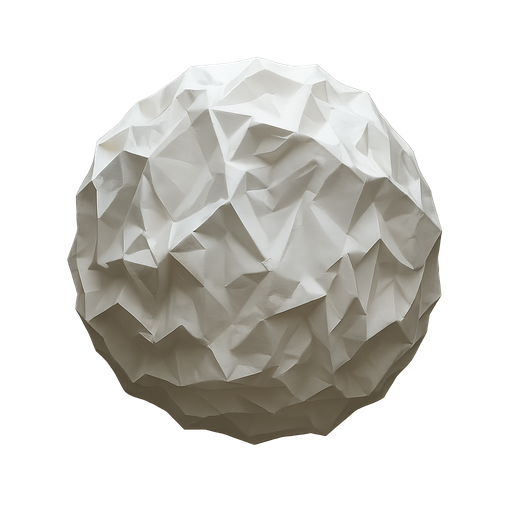
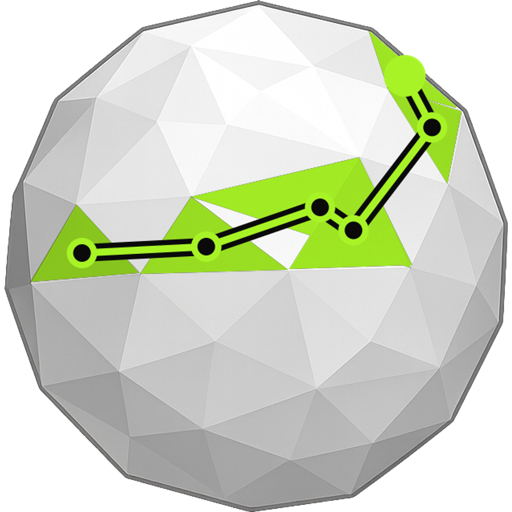
feat(brand): roll the AEO Toolkit mark ('the climb') into README, extension and docs
Replace the plain Advance Labs sphere with the new mark: README headers,
Chrome extension icons (16/32/48/128), docs logo, favicon and apple-touch icon.
Drop the sphere icon generator (generate-icons.mjs, icon.svg) and its
'pnpm icons' step from 'package', which would have overwritten the new PNGs.
Extension version unchanged; the store needs a manual republish.

diff --git a/apps/chrome-extension/manifest.config.ts b/apps/chrome-extension/manifest.config.ts
@@ -15,8 +15,8 @@ export default defineManifest({
     'Client-side AEO/GEO audit of the active tab: meta, structured data, robots.txt, sitemap, llms.txt, AI-bot rules. Exports a PDF.',
   version: `${major}.${minor}.${patch}`,
   version_name: version,
-  // PNGs are generated from src/icons/icon.svg by scripts/generate-icons.mjs
-  // into public/icons/. Vite serves public/ from the build root, so the files
+  // PNGs are committed in public/icons/ (the AEO Toolkit mark on a dark tile).
+  // Vite serves public/ from the build root, so the files
   // land at dist/icons/* — manifest paths are relative to the project root and
   // must start with a letter (no `public/` prefix). Chrome MV3 requires raster
   // icons here; SVG is not accepted for the toolbar or store listing.

diff --git a/brand/README.md b/brand/README.md
@@ -5,30 +5,30 @@
 
 The brand that shipped with the September 2026 website redesign. In one line: **a calibrated
 instrument, printed.** Near-black ground, one acid-green signal colour, violet as the
-secondary, mono labels like the margin notes on a lab sheet, Syne headlines, and the Advance
-Labs sphere as the mark.
+secondary, mono labels like the margin notes on a lab sheet, Syne headlines, and the AEO
+Toolkit mark, "the climb", a sphere with a rising line.
 
 ## Mark
 
-The mark is the **Advance Labs sphere**, the crumpled-paper polyhedron from
-[advancelabs.dev](https://advancelabs.dev). AEO Toolkit is an Advance Labs product and carries the
-studio's mark; the wordmark carries the product name.
+The mark is **the climb**: the Advance Labs sphere carrying a Signal-green rising line. It
+replaces the plain sphere, which now stays the studio mark on advancelabs.dev only.
 
 | File | Use |
 |------|-----|
-| [`mark-256.png`](mark-256.png) | The mark alone, square, transparent. Favicons, app icons, avatars. |
+| [`mark-256.png`](mark-256.png) | The mark alone, square, transparent. In-page logos, READMEs. |
+| [`icon-256.png`](icon-256.png) | The mark on a rounded `#0A0A0B` tile. Favicons, app icons, avatars. |
 | [`mark-512.png`](mark-512.png) | Same, for social cards, README and print. |
 | [`logo-dark.png`](logo-dark.png) | Horizontal lockup (mark + wordmark in Signal green) for **dark** backgrounds. Transparent. |
 | [`logo.png`](logo.png) | Horizontal lockup (mark + wordmark in Ink) for **light** backgrounds. Transparent. |
 | [`logo-dark-preview.png`](logo-dark-preview.png) | The dark lockup composited on the `#0A0A0B` ground, for previews. |
 | [`social-preview.png`](social-preview.png) | 1280×640 card for the GitHub repository social preview (upload under Settings). |
 
-The sphere is a photographed object, so the assets are rasters with alpha; there is no vector
-version. The 1024 px master is the `MoonAinB.png` served by advancelabs.dev.
+The mark is a raster with alpha; there is no vector version. The lockups (`logo*.png`,
+`social-preview.png`) still carry the plain sphere and are stale until regenerated with the new mark.
 
 In `apps/console`, use `BrandMark` / `BrandLockup` from `src/components/BrandMark.tsx` rather
-than these files. The Chrome extension's icons are generated from `src/icons/icon.svg`, which
-embeds the same sphere.
+than these files. The Chrome extension's icons are committed PNGs in
+`apps/chrome-extension/public/icons/`.
 
 ## Wordmark
 
@@ -105,11 +105,7 @@ problem in a smaller box.
 | Favicons, app icons, avatars | Same, wherever the host renders on an unknown ground |
 | Anywhere we own the ground (site, docs, README on GitHub's dark UI) | The transparent mark, as above |
 
-Clear space and the 16 px mark minimum **collide on small tiles** — a quarter-width inset on a
-16 px icon leaves a 10 px sphere, under the mark's own floor. Clear space is what gives, because
-it is breathing room and legibility is a requirement. The inset therefore tightens as the tile
-shrinks: the sphere takes 64% of the tile at 128 and 48, 78% at 32, 88% at 16. That table lives
-in `apps/chrome-extension/scripts/generate-icons.mjs`; change it there, not by hand-editing PNGs.
+The tile icons were produced at 16/32/48/64/128/180/192/256/512/1024 px with the sphere inset tightening as the tile shrinks (clear space yields to legibility at 16 px). They are committed rasters; regenerate from the master, do not hand-edit.
 
 ## Previous brand
 

diff --git a/apps/chrome-extension/README.md b/apps/chrome-extension/README.md
@@ -1,8 +1,5 @@
 <p align="center">
-  <picture>
-    <source media="(prefers-color-scheme: dark)" srcset="../../brand/logo-dark.png">
-    <img src="../../brand/logo.png" alt="AEO Toolkit" width="280">
-  </picture>
+  <img src="../../brand/mark-256.png" alt="AEO Toolkit" width="128">
 </p>
 
 # @advance-labs/chrome-extension
@@ -55,9 +52,8 @@ Then load the unpacked extension:
 | Script | What it does |
 | --- | --- |
 | `dev` | `vite` dev build with HMR for the popup + content/background reload. |
-| `icons` | Rasterize `src/icons/icon.svg` (the brand mark) → `public/icons/icon-{16,32,48,128}.png` via `sharp`. |
 | `build` | `vite build` → production `dist/` (the loadable/zippable extension). |
-| `package` | `icons`, then `build`, then zip `dist/` into a store-uploadable `aeo-extension.zip` (manifest at the archive root). |
+| `package` | `build`, then zip `dist/` into a store-uploadable `aeo-extension.zip` (manifest at the archive root). |
 | `typecheck` | `tsc --noEmit` under strict mode. |
 | `test` | `vitest run` — unit tests for the pure pipeline (mocks `@advance-labs/*` + I/O). |
 
@@ -93,7 +89,7 @@ are required.
 pnpm --filter @advance-labs/chrome-extension package
 ```
 
-This first generates the brand icons, then builds `dist/` and zips its **contents** (so
+This builds `dist/` and zips its **contents** (so
 `manifest.json` sits at the archive root, as Chrome requires) into
 `apps/chrome-extension/aeo-extension.zip`. See [`CHROME_STORE.md`](./CHROME_STORE.md) for the
 full listing/submission walkthrough — required icon sizes (16/32/48/128 PNG), screenshots, the
@@ -101,10 +97,9 @@ privacy disclosures (all analysis is local; **zero server calls**), and version-
 
 ### Toolbar & store icons
 
-The toolbar and store icons are rasterized from the **brand mark** — `src/icons/icon.svg`
-(the Advance Labs sphere; see [`brand/README.md`](../../brand/README.md)) — into
-`public/icons/icon-{16,32,48,128}.png` by `scripts/generate-icons.mjs` (`pnpm icons`). Chrome
-MV3 will not accept SVG for the action icon or the store listing, so these PNGs are required.
-`manifest.config.ts` wires the `icons` map and `action.default_icon` (16/48/128) to them;
-`public/` is copied to the build root, so they resolve at `dist/icons/*`. The 128px PNG is
-also the Chrome Web Store listing icon.
+The toolbar and store icons are the AEO Toolkit mark ("the climb") on a rounded `#0A0A0B` tile
+(see [`brand/README.md`](../../brand/README.md)), committed as `public/icons/icon-{16,32,48,128}.png`.
+They are not generated; replace the PNGs to change them. Chrome MV3 will not accept SVG for the action
+icon or the store listing. `manifest.config.ts` wires the `icons` map and `action.default_icon`
+(16/48/128) to them; `public/` is copied to the build root, so they resolve at `dist/icons/*`. The
+128px PNG is also the Chrome Web Store listing icon.

diff --git a/apps/chrome-extension/CHROME_STORE.md b/apps/chrome-extension/CHROME_STORE.md
@@ -1,8 +1,5 @@
 <p align="center">
-  <picture>
-    <source media="(prefers-color-scheme: dark)" srcset="../../brand/logo-dark.png">
-    <img src="../../brand/logo.png" alt="AEO Toolkit" width="280">
-  </picture>
+  <img src="../../brand/mark-256.png" alt="AEO Toolkit" width="128">
 </p>
 
 # Publishing to the Chrome Web Store
@@ -38,7 +35,7 @@ ever leaves the browser**, and there are no server calls, accounts, or API keys.
 pnpm --filter @advance-labs/chrome-extension package
 ```
 
-This generates the brand icons (`pnpm icons`), runs `vite build` (producing `dist/`),
+This runs `vite build` (producing `dist/`),
 and then zips the build output into
 `apps/chrome-extension/aeo-extension.zip` — the file you upload to the store.
 The zip contains the `manifest.json` at its root (Chrome requires the manifest
@@ -80,8 +77,8 @@ Prepare these before submission (the store will not publish without them):
 
 | Asset | Spec | Notes |
 | --- | --- | --- |
-| **Extension icons** | 16×16, 32×32, 48×48, 128×128 PNG | Generated from the brand mark `src/icons/icon.svg` by `pnpm icons` (`scripts/generate-icons.mjs`, via `sharp`) into `public/icons/icon-{16,32,48,128}.png`; Vite copies `public/` into `dist/`, so they resolve at `dist/icons/*`. `manifest.config.ts` already wires the `icons` map and `action.default_icon` (16/48/128). The `package` script runs `icons` automatically, so the store zip always contains them. |
-| **Store icon** | 128×128 PNG | The icon shown on the store listing page — `public/icons/icon-128.png`, the Advance Labs sphere rasterized at 128px (see `brand/README.md`). |
+| **Extension icons** | 16×16, 32×32, 48×48, 128×128 PNG | The AEO Toolkit mark on a dark tile, committed as `public/icons/icon-{16,32,48,128}.png`; Vite copies `public/` into `dist/`, so they resolve at `dist/icons/*`. `manifest.config.ts` already wires the `icons` map and `action.default_icon` (16/48/128). |
+| **Store icon** | 128×128 PNG | The icon shown on the store listing page — `public/icons/icon-128.png`, the AEO Toolkit mark at 128px (see `brand/README.md`). |
 | **Screenshots** | 1280×800 or 640×400 PNG/JPEG, 1–5 images | Capture the popup: score gauge, the site-file (robots/sitemap/llms) grid, and the checklist. |
 | **Small promo tile** (optional) | 440×280 PNG/JPEG | Improves discoverability. Generate with `pnpm promo-tiles` → `store-assets/small-tile-440x280.png`. |
 | **Marquee promo tile** (optional) | 1400×560 PNG/JPEG | Only needed for featured placement. Generate with `pnpm promo-tiles` → `store-assets/marquee-1400x560.png`. |

diff --git a/docs/reference/chrome-extension.md b/docs/reference/chrome-extension.md
@@ -96,8 +96,6 @@ That generates the icons, runs `vite build`, and zips `dist/` into
 where Chrome requires it. To run an unpacked build, load `dist/` via `chrome://extensions` with
 Developer mode on.
 
-Icons are generated from `src/icons/icon.svg` by `scripts/generate-icons.mjs`. They composite
-the Advance Labs sphere onto a rounded `#0A0A0B` tile rather than shipping it on transparency,
-because the sphere is off-white with no outline and would otherwise be close to invisible on the
-Chrome Web Store's white listing card and in the light-mode toolbar. See
-[`brand/README.md`](../../brand/README.md) under "App icons".
+Icons are committed PNGs in `public/icons/` (not generated). They carry the AEO Toolkit mark on a
+rounded `#0A0A0B` tile so the icon holds up on the Chrome Web Store's white listing card and the
+light-mode toolbar. See [`brand/README.md`](../../brand/README.md) under "App icons".

diff --git a/README.md b/README.md
@@ -1,9 +1,6 @@
 <div align="center">
 
-<picture>
-  <source media="(prefers-color-scheme: dark)" srcset="brand/logo-dark.png">
-  <img src="brand/logo.png" alt="AEO Toolkit" width="360">
-</picture>
+<img src="brand/mark-256.png" alt="AEO Toolkit" width="128">
 
 # AEO Toolkit — AI Search Optimization Suite
 
